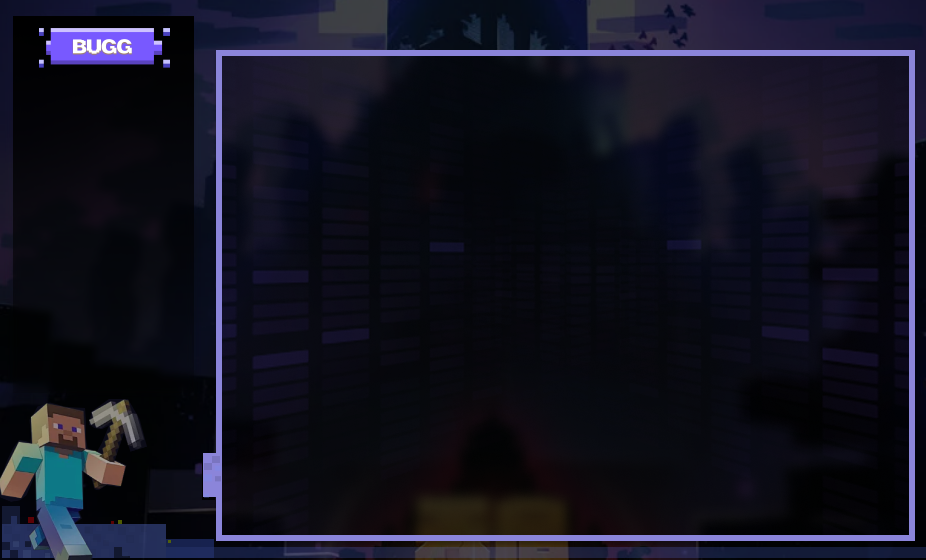
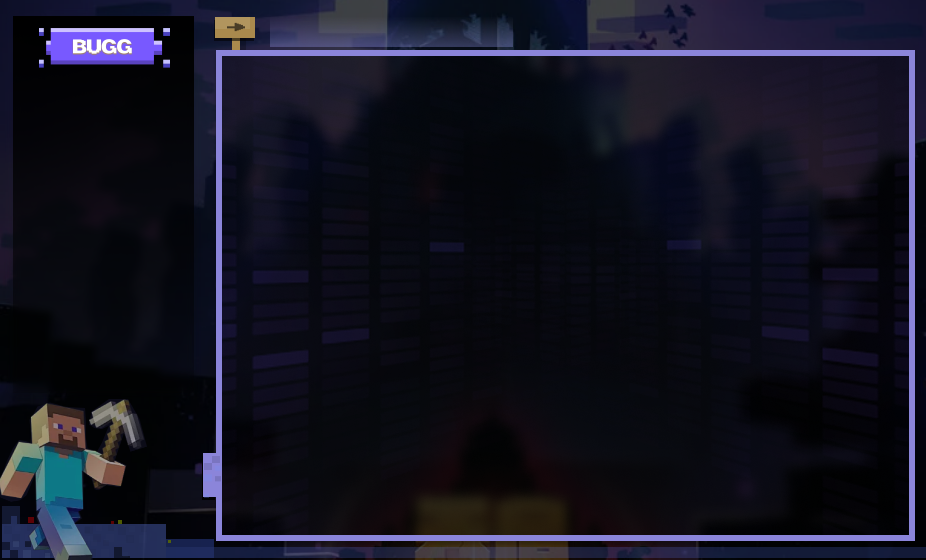
feat(UI): 更新标题栏，添加版本选择和控制按钮
- 修改标题栏布局，增加版本选择和版本设置按钮
- 添加最小化和关闭按钮，优化按钮样式和功能
- 更新相关图标资源，确保按钮正常显示

Changed region(s): [[0.2117, 0.0304, 0.5745, 0.0911]]

diff --git a/src/buggcraft/ui/widgets/titlebar.py b/src/buggcraft/ui/widgets/titlebar.py
@@ -28,10 +28,16 @@ class TitleBar(QWidget):
         }
         self.tab_names = ["开始", "设置"]
         
+        # 版本按钮配置
+        self.version_buttons = ["版本选择", "版本设置"]
+        
+        # 控制按钮配置
+        self.control_buttons = ["最小化", "关闭"]
+        
         # 创建透明图标 
         self.transparent_icon = QIcon(os.path.abspath(os.path.join(self.resource_path, 'images', 'bar', 'ic_no.png')))
         
-        self.setFixedHeight(40)  # 固定高度
+        self.setFixedHeight(55)  # 固定高度，确保按钮不被裁切
         self.init_ui()
     
     def paintEvent(self, event):
@@ -43,65 +49,68 @@ class TitleBar(QWidget):
     def init_ui(self):
         # 主水平布局
         main_layout = QHBoxLayout(self)
-        main_layout.setContentsMargins(15, 0, 15, 0)
+        main_layout.setContentsMargins(22, -5, 15, 0)
         main_layout.setSpacing(0)
         
-         
-        # 中间标签区域  
-        main_layout.addStretch(1)  # 左侧拉伸
+        # 左侧拉伸，将所有按钮推到右侧
+        main_layout.addStretch(1)
         
-        self.tab_widget = QWidget()
-        tab_layout = QHBoxLayout(self.tab_widget)
-        tab_layout.setContentsMargins(0, 0, 0, 0)
-        tab_layout.setSpacing(0)
-        
-        # 创建标签按钮
+        # 为开始和设置按钮创建独立容器
         self.tab_buttons = []
-        for name in self.tab_names:
+        
+        # 创建标签按钮容器
+        tab_container = QWidget()
+        tab_container.setFixedSize(250, 50)  # 设置容器大小
+        tab_container.setStyleSheet("background: transparent;")   
+        
+        # 创建开始和设置按钮
+        for i, name in enumerate(self.tab_names):
             tab_button = self.create_tab_button(name)
             self.tab_buttons.append(tab_button)
-            tab_layout.addWidget(tab_button)
+            
+            # 设置按钮的父容器
+            tab_button.setParent(tab_container)
+            
+            
+            if i == 0:  # 开始按钮
+                tab_button.move(0, -8)   
+            else:  # 设置按钮
+                tab_button.move(124, -8)   
         
-        main_layout.addWidget(self.tab_widget)
-        main_layout.addStretch(1)  # 右侧拉伸
+        # 将容器添加到主布局
+        main_layout.addWidget(tab_container)
         
-        # 右侧按钮区域
-        buttons_widget = QWidget()
-        buttons_layout = QHBoxLayout(buttons_widget)
-        buttons_layout.setContentsMargins(0, 0, 0, 0)
-        buttons_layout.setSpacing(8)
+        # 标签按钮和版本按钮之间的间距
+        main_layout.addSpacing(5)
         
-        # 最小化按钮
-        self.minimize_btn = QPushButton()
-        self.minimize_btn.setFixedSize(15, 15)
-        self.minimize_btn.setStyleSheet("""
-            QPushButton {
-                background-color: #00AA36;
-                border-radius: 0px;
-            }
-            QPushButton:hover {
-                background-color: #55BB6A;
-            }
-        """)
-        self.minimize_btn.clicked.connect(self.parent.showMinimized)
-        buttons_layout.addWidget(self.minimize_btn)
+        # 创建版本按钮（版本选择、版本设置）
+        self.version_btn_list = []
         
-        # 关闭按钮
-        self.close_btn = QPushButton()
-        self.close_btn.setFixedSize(15, 15)
-        self.close_btn.setStyleSheet("""
-            QPushButton {
-                background-color: #FF0000;
-                border-radius: 0px;
-            }
-            QPushButton:hover {
-                background-color: #F00036;
-            }
-        """)
-        self.close_btn.clicked.connect(self.parent.close)
-        buttons_layout.addWidget(self.close_btn)
+        # 创建版本选择按钮
+        version_selection_btn = self.create_version_selection_button()
+        self.version_btn_list.append(version_selection_btn)
+        main_layout.addWidget(version_selection_btn)
         
-        main_layout.addWidget(buttons_widget)
+        # 版本按钮之间的间距
+        main_layout.addSpacing(5)
+        
+        # 创建版本设置按钮
+        version_settings_btn = self.create_version_settings_button()
+        self.version_btn_list.append(version_settings_btn)
+        main_layout.addWidget(version_settings_btn)
+        
+        # 版本按钮和控制按钮之间的间距
+        main_layout.addSpacing(5)
+        
+        # 创建控制按钮（最小化、关闭）
+        self.control_btn_list = []
+        for i, name in enumerate(self.control_buttons):
+            control_btn = self.create_control_button(name)
+            self.control_btn_list.append(control_btn)
+            main_layout.addWidget(control_btn)
+            # 控制按钮之间添加小间距
+            if i < len(self.control_buttons) - 1:
+                main_layout.addSpacing(5)
         
         # 设置初始选中状态
         self.set_active_tab(0)
@@ -117,13 +126,13 @@ class TitleBar(QWidget):
         tab_button.setFont(QFont("Source Han Sans CN Heavy", 10))
         tab_button.setAlignment(Qt.AlignCenter)   
         
-        # 设置初始样式 
+        # 设置初始样式
         tab_button.setStyleSheet("""
             QLabel {
                 color: #8e8e8e;
                 font-weight: bold;
                 background: transparent;
-                 padding-left: 15px;
+                padding-left: 15px;
                 padding-top: 5px;
             }
         """)
@@ -132,6 +141,159 @@ class TitleBar(QWidget):
         tab_button.setFixedSize(123, 45)
         
         return tab_button
+
+    def create_version_selection_button(self):
+        """创建版本选择按钮 - 使用version_selection_background.png背景图片"""
+        version_btn = QLabel()
+        version_btn.setObjectName("version_版本选择")
+        version_btn.mousePressEvent = lambda event: self.on_version_clicked("版本选择")
+        
+        # 设置按钮文字
+        version_btn.setText("版本选择")
+        version_btn.setFont(QFont("Source Han Sans CN Heavy", 10))
+        version_btn.setAlignment(Qt.AlignCenter)
+        
+        # 设置按钮尺寸（190x33像素）
+        version_btn.setFixedSize(190, 33)
+        
+        # 设置背景图片
+        bg_path = os.path.abspath(os.path.join(self.resource_path, 'images', 'bar', 'version_selection_background.png'))
+        if os.path.exists(bg_path):
+            bg_path_url = bg_path.replace('\\', '/')
+            version_btn.setStyleSheet(f"""
+                QLabel {{
+                    color: #FFFFFF;
+                    font-weight: bold;
+                    background-image: url({bg_path_url});
+                    background-repeat: no-repeat;
+                    background-position: center;
+                    text-align: center;
+                    qproperty-alignment: AlignCenter;
+                    padding-top: 0px;
+                    padding-bottom: 4px;
+                }}
+            """)
+        else:
+            # 如果图片不存在，使用默认样式
+            version_btn.setStyleSheet("""
+                QLabel {
+                    color: #FFFFFF;
+                    font-weight: bold;
+                    background-color: rgba(64, 64, 64, 0.8);
+                    border: 1px solid #888;
+                    text-align: center;
+                    qproperty-alignment: AlignCenter;
+                    padding-top: 0px;
+                    padding-bottom: 4px;
+                }
+            """)
+        
+        return version_btn
+
+    def create_version_settings_button(self):
+        """创建版本设置按钮 - 使用version_settings_background.png背景图片"""
+        version_btn = QLabel()
+        version_btn.setObjectName("version_版本设置")
+        version_btn.mousePressEvent = lambda event: self.on_version_clicked("版本设置")
+        
+        # 设置按钮文字
+        version_btn.setText("版本设置")
+        version_btn.setFont(QFont("Source Han Sans CN Heavy", 10))
+        version_btn.setAlignment(Qt.AlignCenter)
+        
+        # 设置按钮尺寸（128x33像素）
+        version_btn.setFixedSize(128, 33)
+        
+        # 设置背景图片
+        bg_path = os.path.abspath(os.path.join(self.resource_path, 'images', 'bar', 'version_settings_background.png'))
+        if os.path.exists(bg_path):
+            bg_path_url = bg_path.replace('\\', '/')
+            version_btn.setStyleSheet(f"""
+                QLabel {{
+                    color: #FFFFFF;
+                    font-weight: bold;
+                    background-image: url({bg_path_url});
+                    background-repeat: no-repeat;
+                    background-position: center;
+                    text-align: center;
+                    qproperty-alignment: AlignCenter;
+                    padding-top: 0px;
+                    padding-bottom: 4px;
+                }}
+            """)
+        else:
+            # 如果图片不存在，使用默认样式
+            version_btn.setStyleSheet("""
+                QLabel {
+                    color: #FFFFFF;
+                    font-weight: bold;
+                    background-color: rgba(64, 64, 64, 0.8);
+                    border: 1px solid #888;
+                    text-align: center;
+                    qproperty-alignment: AlignCenter;
+                    padding-top: 0px;
+                    padding-bottom: 4px;
+                }
+            """)
+        
+        return version_btn
+
+    def create_control_button(self, name):
+        """创建控制按钮 - 使用min.png和close.png背景图片"""
+        control_btn = QPushButton()
+        control_btn.setObjectName(f"control_{name}")
+        
+        # 设置按钮尺寸（30x33像素）
+        control_btn.setFixedSize(30, 33)
+        
+        # 根据按钮名称设置背景图片和功能
+        if name == "最小化":
+            bg_image = "min.png"
+            control_btn.clicked.connect(self.parent.showMinimized)
+        elif name == "关闭":
+            bg_image = "close.png"
+            control_btn.clicked.connect(self.parent.close)
+        else:
+            bg_image = "min.png"  # 默认使用最小化图片
+        
+        bg_path = os.path.abspath(os.path.join(self.resource_path, 'images', 'bar', bg_image))
+        if os.path.exists(bg_path):
+            bg_path_url = bg_path.replace('\\', '/')
+            control_btn.setStyleSheet(f"""
+                QPushButton {{
+                    background-image: url({bg_path_url});
+                    background-repeat: no-repeat;
+                    background-position: center;
+                    border: none;
+                }}
+                QPushButton:hover {{
+                    background-color: rgba(255, 255, 255, 0.1);
+                }}
+            """)
+        else:
+            # 如果图片不存在，使用默认样式
+            if name == "最小化":
+                control_btn.setStyleSheet("""
+                    QPushButton {
+                        background-color: #00AA36;
+                        border-radius: 0px;
+                    }
+                    QPushButton:hover {
+                        background-color: #55BB6A;
+                    }
+                """)
+            else:  # 关闭按钮
+                control_btn.setStyleSheet("""
+                    QPushButton {
+                        background-color: #FF0000;
+                        border-radius: 0px;
+                    }
+                    QPushButton:hover {
+                        background-color: #F00036;
+                    }
+                """)
+        
+        return control_btn
 
     def set_active_tab(self, index):
         """设置活动标签页"""
@@ -170,6 +332,15 @@ class TitleBar(QWidget):
             # 调用父窗口的标签切换方法
             if hasattr(self.parent, 'switch_pages'):
                 self.parent.switch_pages(index)
+    
+    def on_version_clicked(self, name):
+        """版本按钮点击事件处理"""
+        if name == "版本选择":
+            # TODO: 实现版本选择功能
+            print(f"点击了{name}按钮")
+        elif name == "版本设置":
+            # TODO: 实现版本设置功能
+            print(f"点击了{name}按钮")
     
     # 保留原有的窗口拖动功能
     def mousePressEvent(self, event: QMouseEvent):
